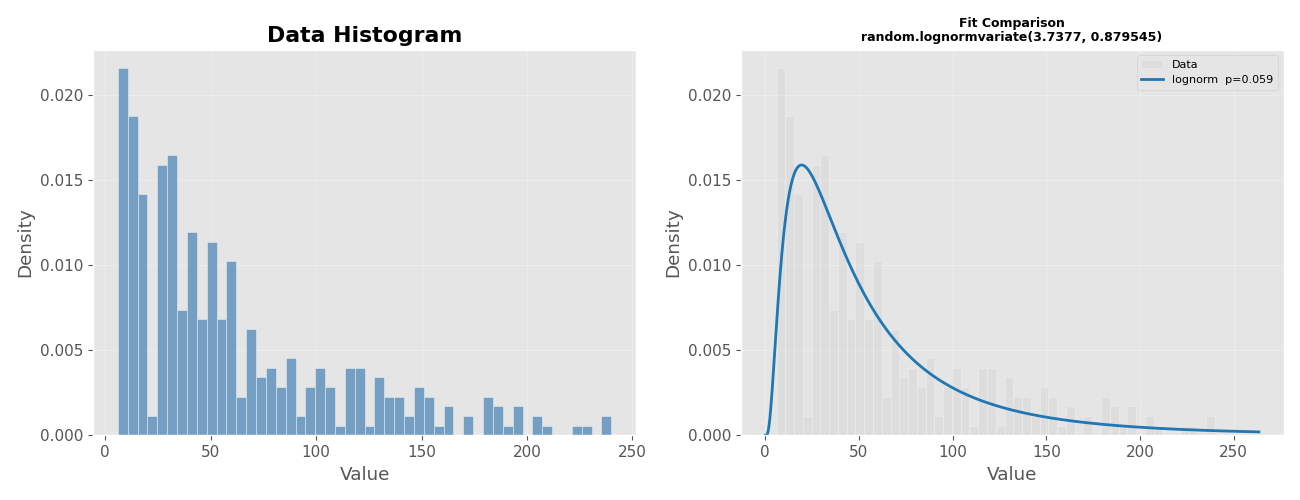
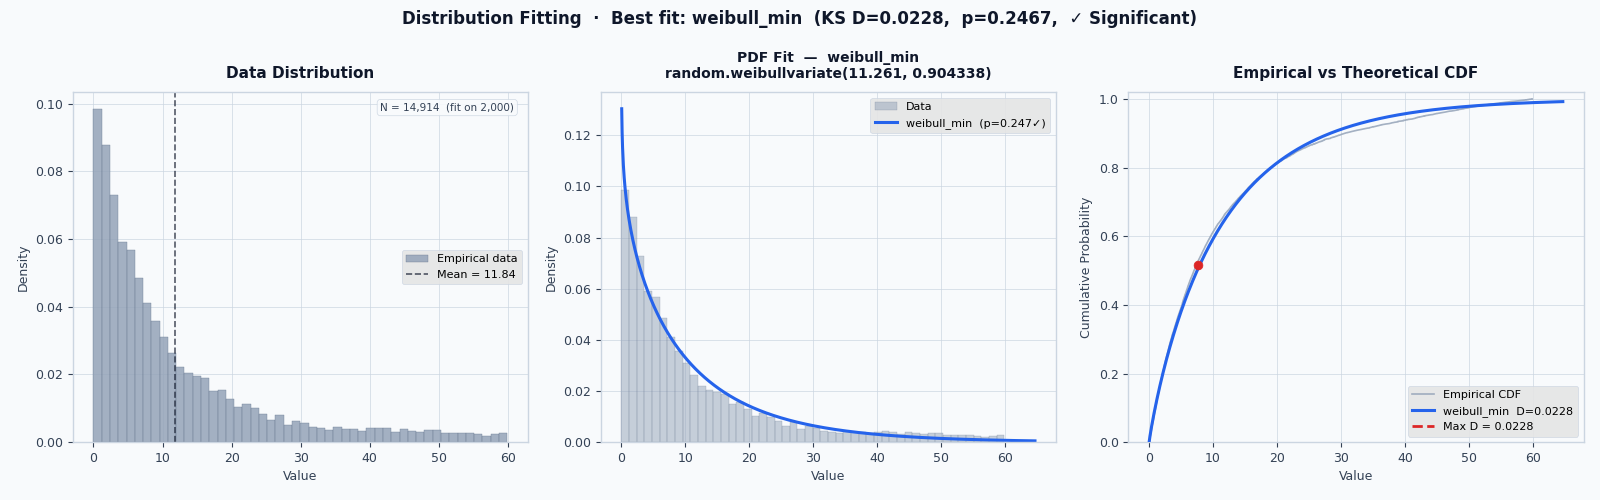
DistFit improvements

diff --git a/src/desk/distfit/distfit.py b/src/desk/distfit/distfit.py
@@ -229,21 +229,28 @@ class DistributionFitter:
     # unless the user's data has negative values.
     _NONNEG_DISTRIBUTIONS = {'expon', 'lognorm', 'gamma', 'weibull_min', 'weibull_max'}
 
-    def __init__(self, alpha: float = 0.05, bins: int = 50, force_loc_zero: bool = True):
+    def __init__(self, alpha: float = 0.05, bins: int = 50,
+                 force_loc_zero: bool = True,
+                 max_sample_size: int = 2000):
         """
         Args:
-            alpha:          Significance level for KS test.
-            bins:           Histogram bins for SSE calculation and plots.
-            force_loc_zero: If True (default), fit non-negative distributions
-                            with floc=0. This produces cleaner Python code
-                            and avoids the spurious loc ≠ 0 issue that caused
-                            the original lognorm/weibull translation bugs.
+            alpha:           Significance level for KS test.
+            bins:            Histogram bins for SSE calculation and plots.
+            force_loc_zero:  If True (default), fit non-negative distributions
+                             with floc=0.
+            max_sample_size: When the dataset exceeds this size, a stratified
+                             random subsample is drawn for fitting and the KS
+                             test so the test remains meaningful (default: 2000).
+                             Set to 0 or None to disable subsampling.
         """
         self.alpha = alpha
         self.bins = bins
         self.force_loc_zero = force_loc_zero
+        self.max_sample_size = max_sample_size or 0
         self.results: List[DistributionResult] = []
-        self.data: Optional[pd.Series] = None
+        self.data: Optional[pd.Series] = None       # full dataset (plots / stats)
+        self._fit_data: Optional[pd.Series] = None  # subsample used for fitting
+        self._was_sampled: bool = False
 
     # ── Data loading ──────────────────────────────────────────
 
@@ -262,6 +269,37 @@ class DistributionFitter:
         self.data = pd.Series(data, name='data')
         logger.info(f"Set {len(self.data)} data points")
         return self.data
+
+    def _prepare_fit_data(self) -> pd.Series:
+        """
+        Return the data series used for fitting and KS testing.
+
+        When len(data) > max_sample_size, draw a stratified random subsample
+        by percentile rank so the shape of the distribution is preserved.
+        The full dataset is still used for summary statistics and plots.
+        """
+        n = len(self.data)
+        if self.max_sample_size and n > self.max_sample_size:
+            # Stratified sample: sort by value, take evenly-spaced indices.
+            # This preserves the empirical distribution shape better than
+            # a pure random draw, especially for heavy-tailed data.
+            sorted_idx = np.argsort(self.data.values)
+            step = n / self.max_sample_size
+            chosen = sorted_idx[
+                np.round(np.arange(self.max_sample_size) * step).astype(int)
+            ]
+            # Shuffle so KS test ordering is randomised
+            rng = np.random.default_rng(seed=42)
+            rng.shuffle(chosen)
+            self._fit_data = self.data.iloc[chosen].reset_index(drop=True)
+            self._was_sampled = True
+            logger.info(
+                f"Subsampled {n:,} → {self.max_sample_size:,} observations for fitting."
+            )
+        else:
+            self._fit_data = self.data
+            self._was_sampled = False
+        return self._fit_data
 
     # ── Parameter names ───────────────────────────────────────
 
@@ -282,7 +320,7 @@ class DistributionFitter:
 
     def _fit_single(self, dist_name: str, dist) -> Tuple:
         """Return params from dist.fit(), respecting force_loc_zero."""
-        data_min = self.data.min()
+        data_min = self._fit_data.min()
         use_floc0 = (
             self.force_loc_zero
             and dist_name in self._NONNEG_DISTRIBUTIONS
@@ -291,8 +329,8 @@ class DistributionFitter:
         with warnings.catch_warnings():
             warnings.filterwarnings('ignore')
             if use_floc0:
-                return dist.fit(self.data, floc=0)
-            return dist.fit(self.data)
+                return dist.fit(self._fit_data, floc=0)
+            return dist.fit(self._fit_data)
 
     def fit_distributions(self, distributions: Optional[List[str]] = None) -> List[DistributionResult]:
         """
@@ -302,10 +340,11 @@ class DistributionFitter:
         if self.data is None:
             raise ValueError("No data loaded. Call load_data() or set_data() first.")
 
+        self._prepare_fit_data()
         distributions = distributions or self.DEFAULT_DISTRIBUTIONS
         self.results = []
 
-        y_hist, x_edges = np.histogram(self.data, bins=self.bins, density=True)
+        y_hist, x_edges = np.histogram(self._fit_data, bins=self.bins, density=True)
         x_mid = (x_edges[:-1] + x_edges[1:]) / 2.0
 
         print(f"\n{'#':<4} {'Distribution':<15} {'KS stat':<10} {'p-value':<10} {'SSE':<12} {'Pass α'}")
@@ -316,7 +355,7 @@ class DistributionFitter:
                 dist = getattr(st, dist_name)
                 params = self._fit_single(dist_name, dist)
 
-                ks_stat, p_value = st.kstest(self.data, dist_name, params)
+                ks_stat, p_value = st.kstest(self._fit_data, dist_name, params)
 
                 arg = params[:-2] if len(params) > 2 else []
                 loc, scale = params[-2], params[-1]
@@ -435,6 +474,13 @@ class DistributionFitter:
             f"  Skewness = {float(self.data.skew()):.4f}",
             f"  Min      = {self.data.min():.4f}",
             f"  Max      = {self.data.max():.4f}",
+        ]
+        if self._was_sampled:
+            lines.append(
+                f"  (Fitting used a stratified sample of {len(self._fit_data):,} "
+                f"from {len(self.data):,} observations)"
+            )
+        lines += [
             "",
             f"Best Fitting Distribution: {best.name}",
             f"  scipy params : {param_str}",
@@ -456,7 +502,7 @@ class DistributionFitter:
 
     # ── Plotting ──────────────────────────────────────────────
 
-    def plot_results(self, show_all: bool = False, figsize: Tuple = (13, 5)) -> None:
+    def plot_results(self, show_all: bool = False, figsize: Tuple = (16, 5)) -> None:
         if not self.results or self.data is None:
             logger.warning("Nothing to plot.")
             return
@@ -464,43 +510,136 @@ class DistributionFitter:
         best = self.get_best_fit()
         results_to_plot = self.results[:5] if show_all else [best]
 
-        fig, (ax1, ax2) = plt.subplots(1, 2, figsize=figsize)
+        # ── palette & style ──────────────────────────────────
+        PALETTE   = ['#2563EB', '#DC2626', '#16A34A', '#D97706', '#7C3AED',
+                     '#0891B2', '#BE185D', '#65A30D', '#EA580C', '#6366F1']
+        BG        = '#F8FAFC'
+        GRID_CLR  = '#CBD5E1'
+        DATA_CLR  = '#94A3B8'
+        DATA_EDGE = '#64748B'
+        TITLE_CLR = '#0F172A'
+        LABEL_CLR = '#334155'
 
-        # Left: histogram only
-        self.data.hist(bins=self.bins, density=True, alpha=0.7, ax=ax1,
-                       color='steelblue', edgecolor='white', linewidth=0.4)
-        ax1.set_title("Data Histogram", fontweight='bold')
-        ax1.set_xlabel("Value")
-        ax1.set_ylabel("Density")
-        ax1.grid(True, alpha=0.3)
-
-        # Right: histogram + fitted PDFs
-        self.data.hist(bins=self.bins, density=True, alpha=0.4, ax=ax2,
-                       color='lightgray', edgecolor='white', linewidth=0.4, label='Data')
+        fig, axes = plt.subplots(1, 3, figsize=figsize)
+        fig.patch.set_facecolor(BG)
+        for ax in axes:
+            ax.set_facecolor(BG)
+            ax.tick_params(colors=LABEL_CLR, labelsize=9)
+            for spine in ax.spines.values():
+                spine.set_edgecolor(GRID_CLR)
+            ax.grid(True, color=GRID_CLR, linewidth=0.6, alpha=0.8)
 
         x_min, x_max = self.data.min(), self.data.max()
-        pad = 0.1 * (x_max - x_min)
-        x = np.linspace(max(0, x_min - pad), x_max + pad, 1000)
+        pad   = 0.08 * (x_max - x_min)
+        x_rng = np.linspace(max(0, x_min - pad), x_max + pad, 1000)
 
-        colors = plt.cm.tab10.colors
+        # ── Panel 1: Data Histogram (full dataset) ───────────
+        ax1 = axes[0]
+        counts, edges, _ = ax1.hist(
+            self.data, bins=self.bins, density=True,
+            color=DATA_CLR, edgecolor=DATA_EDGE, linewidth=0.3, alpha=0.85,
+            label='Empirical data'
+        )
+        ax1.set_title("Data Distribution", fontsize=11, fontweight='bold',
+                      color=TITLE_CLR, pad=10)
+        ax1.set_xlabel("Value", fontsize=9, color=LABEL_CLR)
+        ax1.set_ylabel("Density", fontsize=9, color=LABEL_CLR)
+        # Annotate basic stats
+        mu, sd = self.data.mean(), self.data.std()
+        ax1.axvline(mu, color='#0F172A', linewidth=1.2, linestyle='--', alpha=0.7,
+                    label=f'Mean = {mu:.2f}')
+        ax1.legend(fontsize=8, framealpha=0.9, edgecolor=GRID_CLR)
+        sample_note = (
+            f"N = {len(self.data):,}"
+            + (f"  (fit on {len(self._fit_data):,})" if self._was_sampled else "")
+        )
+        ax1.text(0.97, 0.97, sample_note, transform=ax1.transAxes,
+                 fontsize=7.5, color=LABEL_CLR, va='top', ha='right',
+                 bbox=dict(boxstyle='round,pad=0.3', fc=BG, ec=GRID_CLR, alpha=0.9))
+
+        # ── Panel 2: PDF Overlay (fitted curves) ─────────────
+        ax2 = axes[1]
+        ax2.hist(
+            self.data, bins=self.bins, density=True,
+            color=DATA_CLR, edgecolor=DATA_EDGE, linewidth=0.3, alpha=0.5,
+            label='Data'
+        )
         for idx, r in enumerate(results_to_plot):
             try:
                 dist = getattr(st, r.name)
                 arg  = r.parameters[:-2] if len(r.parameters) > 2 else []
                 loc, scale = r.parameters[-2], r.parameters[-1]
-                y = dist.pdf(x, *arg, loc=loc, scale=scale)
-                label = f"{r.name}  p={r.p_value:.3f}"
-                ax2.plot(x, y, lw=2, color=colors[idx % 10], label=label)
+                y = dist.pdf(x_rng, *arg, loc=loc, scale=scale)
+                lw    = 2.2 if idx == 0 else 1.4
+                alpha = 1.0 if idx == 0 else 0.65
+                label = f"{r.name}  (p={r.p_value:.3f}{'✓' if r.is_significant else ''})"
+                ax2.plot(x_rng, y, lw=lw, color=PALETTE[idx % len(PALETTE)],
+                         alpha=alpha, label=label)
             except Exception as e:
-                logger.warning(f"Plot error for {r.name}: {e}")
+                logger.warning(f"PDF plot error for {r.name}: {e}")
 
         python_code = self.get_python_random_code(best)
-        ax2.set_title(f"Fit Comparison\n{python_code}", fontsize=9, fontweight='bold')
-        ax2.set_xlabel("Value")
-        ax2.set_ylabel("Density")
-        ax2.legend(fontsize=8)
-        ax2.grid(True, alpha=0.3)
+        ax2.set_title(f"PDF Fit  —  {best.name}\n{python_code}",
+                      fontsize=10, fontweight='bold', color=TITLE_CLR, pad=10)
+        ax2.set_xlabel("Value", fontsize=9, color=LABEL_CLR)
+        ax2.set_ylabel("Density", fontsize=9, color=LABEL_CLR)
+        ax2.legend(fontsize=8, framealpha=0.9, edgecolor=GRID_CLR)
 
+        # ── Panel 3: Empirical CDF vs Theoretical CDF ────────
+        ax3 = axes[2]
+        sorted_data = np.sort(self.data.values)
+        ecdf_y = np.arange(1, len(sorted_data) + 1) / len(sorted_data)
+        ax3.plot(sorted_data, ecdf_y, color=DATA_CLR, linewidth=1.2,
+                 alpha=0.85, label='Empirical CDF', zorder=2)
+
+        for idx, r in enumerate(results_to_plot):
+            try:
+                dist  = getattr(st, r.name)
+                arg   = r.parameters[:-2] if len(r.parameters) > 2 else []
+                loc, scale = r.parameters[-2], r.parameters[-1]
+                cdf_y = dist.cdf(x_rng, *arg, loc=loc, scale=scale)
+                lw    = 2.2 if idx == 0 else 1.4
+                alpha = 1.0 if idx == 0 else 0.65
+                label = f"{r.name}  D={r.statistic:.4f}"
+                ax3.plot(x_rng, cdf_y, lw=lw, color=PALETTE[idx % len(PALETTE)],
+                         alpha=alpha, label=label, zorder=3)
+            except Exception as e:
+                logger.warning(f"CDF plot error for {r.name}: {e}")
+
+        # Shade the KS gap for the best fit
+        try:
+            dist  = getattr(st, best.name)
+            arg   = best.parameters[:-2] if len(best.parameters) > 2 else []
+            loc, scale = best.parameters[-2], best.parameters[-1]
+            # Find the x where |ECDF - CDF| is maximum
+            cdf_at_data = dist.cdf(sorted_data, *arg, loc=loc, scale=scale)
+            diffs = np.abs(ecdf_y - cdf_at_data)
+            k_idx = int(np.argmax(diffs))
+            x_ks  = sorted_data[k_idx]
+            y_emp = ecdf_y[k_idx]
+            y_th  = cdf_at_data[k_idx]
+            ax3.plot([x_ks, x_ks], [y_emp, y_th],
+                     color='#DC2626', linewidth=2, linestyle='--',
+                     zorder=4, label=f'Max D = {best.statistic:.4f}')
+            ax3.scatter([x_ks], [(y_emp + y_th) / 2], color='#DC2626',
+                        s=40, zorder=5)
+        except Exception:
+            pass
+
+        ax3.set_title("Empirical vs Theoretical CDF", fontsize=11,
+                      fontweight='bold', color=TITLE_CLR, pad=10)
+        ax3.set_xlabel("Value", fontsize=9, color=LABEL_CLR)
+        ax3.set_ylabel("Cumulative Probability", fontsize=9, color=LABEL_CLR)
+        ax3.set_ylim(0, 1.02)
+        ax3.legend(fontsize=8, framealpha=0.9, edgecolor=GRID_CLR)
+
+        # ── Final layout ──────────────────────────────────────
+        sig_str = "✓ Significant" if best.is_significant else "✗ Not significant"
+        fig.suptitle(
+            f"Distribution Fitting  ·  Best fit: {best.name}  "
+            f"(KS D={best.statistic:.4f},  p={best.p_value:.4f},  {sig_str})",
+            fontsize=12, fontweight='bold', color=TITLE_CLR, y=0.98
+        )
         plt.tight_layout()
         plt.show()
 
@@ -537,6 +676,8 @@ Examples:
   desk-distfit -d data/arrivals.txt --distributions norm expon lognorm
   desk-distfit -d data/arrivals.txt -o results.json --format json
   desk-distfit -d data/arrivals.txt --no-floc0   # allow loc≠0 for all dists
+  desk-distfit -d data/arrivals.txt --max-sample 5000  # larger subsample
+  desk-distfit -d data/arrivals.txt --max-sample 0     # fit on full dataset
         """
     )
     parser.add_argument('-d', '--data',    required=True, help='Data file (one value per line)')
@@ -549,6 +690,9 @@ Examples:
     parser.add_argument('--show-all',  action='store_true', help='Plot top-5 fits, not just the best')
     parser.add_argument('--no-floc0',  action='store_true',
                         help='Do NOT force loc=0 for non-negative distributions')
+    parser.add_argument('--max-sample', type=int, default=2000, metavar='N',
+                        help='Max observations used for fitting / KS test '
+                             '(default: 2000). Use 0 to fit on the full dataset.')
     parser.add_argument('-o', '--output', help='Save results to file')
     parser.add_argument('--format', choices=['table', 'json', 'csv'], default='table',
                         help='Output format (default: table)')
@@ -619,11 +763,12 @@ def run_cli(args: argparse.Namespace) -> int:
         force_loc_zero = not args.no_floc0
 
         fitter = DistributionFitter(alpha=args.alpha, bins=args.bins,
-                                    force_loc_zero=force_loc_zero)
+                                    force_loc_zero=force_loc_zero,
+                                    max_sample_size=args.max_sample)
         fitter.load_data(data_path)
 
         print(f"\nData file : {data_path}")
-        print(f"N={len(fitter.data)}  mean={fitter.data.mean():.4f}  "
+        print(f"N={len(fitter.data):,}  mean={fitter.data.mean():.4f}  "
               f"std={fitter.data.std():.4f}  "
               f"min={fitter.data.min():.4f}  max={fitter.data.max():.4f}")
         if force_loc_zero:
